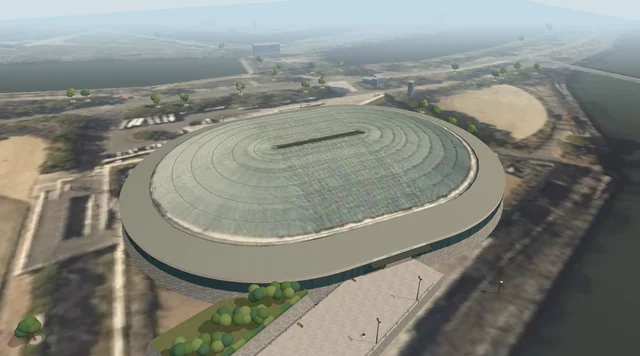
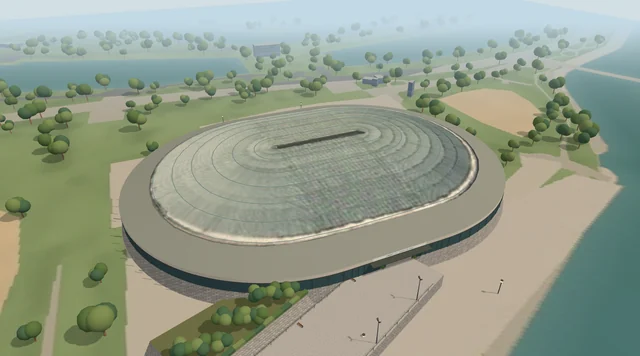
Use surveyed park surfaces and distinct plaza and lobby finishes in Osaka

diff --git a/src/osaka/exterior.js b/src/osaka/exterior.js
@@ -4,33 +4,25 @@ import * as T from 'three';
 import { perimeter, radius, rim } from './seats.js';
 import { deck, ground, innerWall, facade, stairHalf, stairTop, tread, treads, trees, fountain } from './grounds.js';
 
-function masonry(paving) {
+function masonry() {
   const canvas=document.createElement('canvas');canvas.width=canvas.height=512;
   const ctx=canvas.getContext('2d');
-  ctx.fillStyle=paving?'#95928c':'#72726c';ctx.fillRect(0,0,512,512);
+  ctx.fillStyle='#72726c';ctx.fillRect(0,0,512,512);
   let seed=53;
   const random=()=>((seed=(seed*16807)%2147483647)/2147483647);
-  const height=paving?64:85.3333;
-  for(let row=0;row<Math.round(512/height);row++){
-    const width=paving?128:102.4;
-    for(let col=-1;col<Math.ceil(512/width)+1;col++){
-      const x=(col+(row%2)/2)*width, y=row*height;
-      const tone=Math.round((paving?177:159)+random()*(paving?14:36));
+  const height=512/6,width=512/5;
+  for(let row=0;row<6;row++){
+    for(let col=-1;col<=5;col++){
+      const x=(col+(row%2)/2)*width,y=row*height;
+      const tone=Math.round(159+random()*36),cut=7+random()*13;
       ctx.fillStyle='rgb('+[tone+4,tone+3,tone-2]+')';
-      ctx.beginPath();
-      if(!paving){
-        const cut=7+random()*13;
-        ctx.moveTo(x+cut,y+3);ctx.lineTo(x+width-cut*.7,y+2);
-        ctx.lineTo(x+width-2,y+cut);ctx.lineTo(x+width-4,y+height-cut*.55);
-        ctx.lineTo(x+width-cut,y+height-2);ctx.lineTo(x+cut*.7,y+height-4);
-        ctx.lineTo(x+2,y+height-cut);ctx.lineTo(x+3,y+cut);ctx.closePath();ctx.fill();
-        const wash=ctx.createLinearGradient(x,y,x+width*.45,y+height);
-        wash.addColorStop(0,'rgba(246,242,228,.29)');wash.addColorStop(.5,'rgba(184,177,164,.03)');wash.addColorStop(1,'rgba(51,60,57,.25)');
-        ctx.fillStyle=wash;ctx.fill();continue;
-      }
-      ctx.moveTo(x+2,y+3);ctx.lineTo(x+width-4,y+2);
-      ctx.lineTo(x+width-2,y+height-6);ctx.lineTo(x+width-7,y+height-2);
-      ctx.lineTo(x+3,y+height-2);ctx.closePath();ctx.fill();
+      ctx.beginPath();ctx.moveTo(x+cut,y+3);ctx.lineTo(x+width-cut*.7,y+2);
+      ctx.lineTo(x+width-2,y+cut);ctx.lineTo(x+width-4,y+height-cut*.55);
+      ctx.lineTo(x+width-cut,y+height-2);ctx.lineTo(x+cut*.7,y+height-4);
+      ctx.lineTo(x+2,y+height-cut);ctx.lineTo(x+3,y+cut);ctx.closePath();ctx.fill();
+      const wash=ctx.createLinearGradient(x,y,x+width*.45,y+height);
+      wash.addColorStop(0,'rgba(246,242,228,.29)');wash.addColorStop(.5,'rgba(184,177,164,.03)');wash.addColorStop(1,'rgba(51,60,57,.25)');
+      ctx.fillStyle=wash;ctx.fill();
     }
   }
   for(let i=0;i<24000;i++){
@@ -46,9 +38,22 @@ export function buildExterior(redraw) {
   const root=new T.Group();
   const solid=color=>new T.MeshStandardMaterial({color,roughness:.82});
   const glow=color=>new T.MeshBasicMaterial({color});
-  const stoneMap=masonry(false);
+  const stoneMap=masonry();
   const stone=new T.MeshStandardMaterial({map:stoneMap,bumpMap:stoneMap,bumpScale:.23});
-  const tile=new T.MeshStandardMaterial({map:masonry(true)});
+  const loader=new T.TextureLoader();
+  function floorFinish(name,repeat,roughness,relief){
+    const read=(part)=>{
+      const t=loader.load('./textures/'+name+'_'+part+'.webp',redraw);
+      t.wrapS=t.wrapT=T.RepeatWrapping;t.repeat.setScalar(repeat);t.anisotropy=4;
+      if(part==='albedo')t.colorSpace=T.SRGBColorSpace;
+      return t;
+    };
+    return new T.MeshStandardMaterial({map:read('albedo'),normalMap:read('normal'),
+      normalScale:new T.Vector2(relief,relief),roughness,roughnessMap:read('roughness'),side:T.DoubleSide});
+  }
+  // Planar UVs span four metres. Match the 2.4 m paving set used at K-Arena.
+  const tile=floorFinish('pavers_warmgrey',4/2.4,.94,.42);
+  const lobbyFloor=floorFinish('concrete_floor_sealed',1,.83,.16);
   const concrete=solid(0xb1aaa0), bronze=solid(0x464f49), glass=solid(0x496b70);
   const wood=solid(0x946e50), foliage=[solid(0x587741),solid(0x789056),solid(0x466c4c)];
   const porcelain=solid(0xe3ddcc), lamp=glow(0xffebc8);
@@ -90,12 +95,11 @@ export function buildExterior(redraw) {
     const mesh=new T.Mesh(new T.PlaneGeometry(w,h),new T.MeshBasicMaterial({map}));
     mesh.position.set(x,y,z);mesh.rotation.y=side>0?0:Math.PI;root.add(mesh);return mesh;
   }
-  const shade=solid(0x65785a);
-  precinct({root,box,strip,sign,stone,tile,bronze,concrete,wood,porcelain,lamp,foliage,instance,crown,cylinder},redraw);
+  precinct({root,box,strip,sign,stone,tile,lobbyFloor,bronze,concrete,wood,porcelain,lamp,foliage,instance,crown,cylinder},redraw);
   strip(stone,facade+1.25,ground-.08,facade,deck+.04);
-  strip(tile,innerWall,deck,stair.inner,deck,{planar:true});
-  strip(tile,stair.inner,deck,stair.outer,deck,{planar:true,omit:p=>Math.abs(stairDistance(p.x,p.z))<14});
-  strip(tile,stair.outer,deck,facade,deck,{planar:true});
+  strip(lobbyFloor,innerWall,deck,stair.inner,deck,{planar:true});
+  strip(lobbyFloor,stair.inner,deck,stair.outer,deck,{planar:true,omit:p=>Math.abs(stairDistance(p.x,p.z))<14});
+  strip(lobbyFloor,stair.outer,deck,facade,deck,{planar:true});
   glass.roughness=.28;glass.metalness=.23;
   strip(glass,facade,deck,facade,deck+3.7,{gap:4.65});
   for(const height of [.24,2.70])strip(bronze,facade+.035,deck+height,facade+.035,deck+height+.07,{gap:4.65});
@@ -158,7 +162,7 @@ export function buildExterior(redraw) {
   // A representative fountain, park planting and plaza lamps frame the approach.
   const paving=new T.CircleGeometry(17,64);paving.rotateX(-Math.PI/2);
   const uv=paving.attributes.uv,p=paving.attributes.position;
-  for(let i=0;i<uv.count;i++)uv.setXY(i,p.getX(i)/4,p.getZ(i)/4);
+  for(let i=0;i<uv.count;i++)uv.setXY(i,(p.getX(i)+fountain.x)/4,(p.getZ(i)+fountain.z)/4);
   const roundel=new T.Mesh(paving,tile);roundel.position.set(fountain.x,ground+.052,fountain.z);root.add(roundel);
   instance(cylinder,concrete,fountain.x,ground+.23,fountain.z,fountain.radius,.46,fountain.radius);
   instance(cylinder,solid(0x75a9a8),fountain.x,ground+.47,fountain.z,fountain.radius-.32,.03,fountain.radius-.32);
@@ -174,14 +178,16 @@ export function buildExterior(redraw) {
   }
   const water=new T.BufferGeometry();water.setAttribute('position',new T.Float32BufferAttribute(waterLines,3));
   root.add(new T.LineSegments(water,new T.LineBasicMaterial({color:0xdaf0ef,transparent:true,opacity:.74})));
+  // Park planting is grouped into shared meshes. Vary the crowns in size
+  // and orientation so the riverbanks read as planted ground from above.
+  const trunk=new T.CylinderGeometry(.7,1,1,7);
   trees.forEach(([x,z],i)=>{
-    instance(cylinder,shade,x,ground+.045,z,2.25,.018,1.8,i);
-    instance(cylinder,concrete,x,ground+.18,z,1.4,.36,1.4);
-    instance(cylinder,wood,x,ground+2.2,z,.23,4.4,.23);
-    for(let j=0;j<6;j++){
-      const a=i*2.399+j*2.21,spread=1.15+.48*Math.sin(i+j),h=4.55+.34*j+.43*Math.cos(i);
-      instance(cylinder,wood,x+Math.sin(a)*.55,ground+h-1.14,z+Math.cos(a)*.55,.11,2.1,.11,a,.52);
-      instance(crown,foliage[(i+j)%3],x+Math.sin(a)*spread,ground+h,z+Math.cos(a)*spread,1.75,1.3+.12*j,1.61,a);
+    const a=i*2.39996,size=.8+.30*(1+Math.sin(i*6.2)),h=4.5*size;
+    instance(trunk,wood,x,ground+h/2,z,.24*size,h,.24*size,a);
+    for(let j=0;j<3;j++){
+      const angle=a+j*2.12,spread=1.35*size;
+      instance(crown,foliage[(i+j)%3],x+Math.sin(angle)*spread,ground+h+j*.65*size,z+Math.cos(angle)*spread,
+        2.45*size,(2.1+j*.25)*size,2.25*size,angle);
     }
   });
   for(const x of [-23,23])for(const z of [-78,78]){

diff --git a/src/osaka/precinct.js b/src/osaka/precinct.js
@@ -8,12 +8,11 @@ import { loadProps } from '../app/assets.js';
 // Osaka City 2022 CityGML (MLIT PLATEAU). Local X follows the surveyed long wall.
 // The aerial mosaic is a rotated crop of the MLIT PLATEAU-Ortho 2024 tiles.
 export function precinct(kit, redraw){
-  const {root,box,strip,sign,stone,tile,bronze,concrete,wood,porcelain,lamp,foliage,instance,crown,cylinder}=kit;
+  const {root,box,strip,sign,stone,tile,lobbyFloor,bronze,concrete,wood,porcelain,lamp,foliage,instance,crown,cylinder}=kit;
   const loader=new T.TextureLoader();
   function texture(path){
     const t=loader.load(path,redraw);t.colorSpace=T.SRGBColorSpace;t.anisotropy=4;return t;
   }
-  const skyMap=texture('./venues/osaka-park.webp');
   const groundShape=new T.Shape([[-480,-480],[480,-480],[480,480],[-480,480]].map(([x,z])=>new T.Vector2(x,-z)));
   const hole=new T.Path();
   for(let i=0;i<=160;i++){
@@ -24,8 +23,39 @@ export function precinct(kit, redraw){
   const land=new T.ShapeGeometry(groundShape),pos=land.attributes.position,uv=land.attributes.uv;
   for(let i=0;i<pos.count;i++)uv.setXY(i,.5+pos.getX(i)/960,.5+pos.getY(i)/960);
   land.rotateX(-Math.PI/2);
-  const landscape=new T.Mesh(land,new T.MeshStandardMaterial({map:skyMap,roughness:1,side:T.DoubleSide}));
+  const surface=new T.MeshStandardMaterial({map:texture('./venues/osaka-landcover.webp'),roughness:1});
+  const grain=loader.load('./venues/osaka-ground-detail.webp',redraw);
+  grain.wrapS=grain.wrapT=T.RepeatWrapping;grain.anisotropy=4;
+  // Use the survey colour for the distant view. In walking range, layer the
+  // grain of grass, pavers or asphalt at a physical scale of 2.4 m per repeat.
+  surface.onBeforeCompile=shader=>{
+    shader.uniforms.groundDetail={value:grain};
+    shader.fragmentShader='uniform sampler2D groundDetail;\n'+shader.fragmentShader.replace(
+      '#include <map_fragment>',`#include <map_fragment>
+      vec3 grain = texture2D(groundDetail, vMapUv * 400.0).rgb - 0.5;
+      vec3 base = diffuseColor.rgb;
+      float vegetation = smoothstep(0.012, 0.050, base.g - base.r);
+      float water = smoothstep(0.02, 0.10, base.b - base.r);
+      float hardscape = mix(grain.b, grain.g, smoothstep(0.19, 0.33, base.r));
+      diffuseColor.rgb *= 1.0 + mix(mix(hardscape, grain.r, vegetation), grain.b * 0.16, water);
+    `);
+  };
+  const landscape=new T.Mesh(land,surface);
   landscape.position.y=ground-.045;root.add(landscape);
+  let aerialMaterial, aerialReady=false, aerialSelected=false;
+  root.userData.setAerial=enabled=>{
+    aerialSelected=enabled;
+    if(enabled&&!aerialMaterial){
+      const image=loader.load('./venues/osaka-park.webp',()=>{
+        aerialReady=true;
+        if(aerialSelected)landscape.material=aerialMaterial;
+        redraw();
+      });
+      image.colorSpace=T.SRGBColorSpace;image.anisotropy=4;
+      aerialMaterial=new T.MeshStandardMaterial({map:image,roughness:1});
+    }
+    landscape.material=enabled&&aerialReady?aerialMaterial:surface;
+  };
   const facadeMap=texture('./textures/facade_office_glass_albedo.webp');
   facadeMap.wrapS=facadeMap.wrapT=T.RepeatWrapping;
   const sides=new T.MeshStandardMaterial({map:facadeMap,color:0xd4dde0,side:T.DoubleSide});
@@ -158,10 +188,9 @@ export function precinct(kit, redraw){
     return new T.MeshStandardMaterial({map,color,roughness:.84,side:T.DoubleSide});
   }
   const plaster=tiledFinish('concrete_painted_cream',0xf5f2ed);
-  const terrazzo=tiledFinish('concrete_floor_sealed',0xb9b7ac,1.5);
   const gateGap=p=>Boolean(gates.find(g=>(p.x-g.cx)*g.nx+p.z*g.nz>20&&Math.abs((p.x-g.cx)*g.nz-p.z*g.nx)<2.7));
   const stairVoid=p=>Math.abs(Math.atan2(p.z,Math.abs(p.x)-17.6)*53.3)<14;
-  strip(terrazzo,23.8,.014,facade,.014,{planar:true});
+  strip(lobbyFloor,radius-.52,.01,facade,.01,{planar:true});
   strip(plaster,47.8,3.65,51.2,3.65,{planar:true});
   strip(plaster,51.2,3.65,55.4,3.65,{planar:true,omit:stairVoid});
   strip(plaster,55.4,3.65,facade,3.65,{planar:true});

diff --git a/src/osaka/viewer.js b/src/osaka/viewer.js
@@ -61,6 +61,7 @@ export function start() {
   let flyPose=mode==='fly'?savedPose:null;
   if(mode==='fly')savedPose=null;
   let night=params.get('night')==='1', show=params.get('show')==='1', low=params.get('q')==='low';
+  let aerial=params.get('aerial')==='1';
   let labels=params.get('labels')!=='0',roofOpen=params.get('roof')==='0';
   let floor=params.get('level')==='1'?1:2, axis=params.get('axis')==='x'?'x':'z';
   let cut=Math.max(-65,Math.min(65,Number(params.get('cut'))||0));
@@ -231,10 +232,12 @@ export function start() {
   const showSwitch=switchRow(tr('공연 조명'),show,value=>{show=value;appearance();});
   const labelSwitch=switchRow(tr('라벨'),labels,value=>{labels=value;appearance();});
   const roofSwitch=switchRow(tr('지붕 열기'),roofOpen,value=>{roofOpen=value;update();});
+  const aerialSwitch=switchRow(tr('항공사진 지면'),aerial,value=>{aerial=value;appearance();},
+    tr('공연장 주변 공원의 지면에 항공사진을 표시합니다.'));
   const sceneTools=h('div',{class:'scene'},
     h('div',{class:'time-row'},h('span',null,tr('시간대')),time),
     h('details',{class:'group'},h('summary',null,icon('settings',16),tr('장면 설정')),
-      showSwitch,roofSwitch,labelSwitch,h('div',{class:'inline'},h('span',null,tr('품질')),quality)));
+      showSwitch,roofSwitch,labelSwitch,aerialSwitch,h('div',{class:'inline'},h('span',null,tr('품질')),quality)));
   const help=h('dialog',{class:'quick-guide','aria-label':tr('조작 안내')},h('h2',null,tr('조작 안내')),
     h('ul',null,[
       ['↻','전체 보기','드래그로 회전 · 휠 또는 두 손가락으로 확대'],
@@ -279,6 +282,9 @@ export function start() {
     renderer.setPixelRatio(low?1:Math.min(devicePixelRatio,1.75));
     hall.setShow(show);time.setValue(night);quality.setValue(low);
     showSwitch.input.checked=show;labelSwitch.input.checked=labels;
+    grounds?.userData.setAerial(aerial);
+    aerialSwitch.input.checked=aerial;
+    credit.textContent=aerial?'© MLIT PLATEAU · PLATEAU-Ortho 2024':'© MLIT PLATEAU · Osaka';
     roofSwitch.hidden=mode!=='exterior';roofSwitch.input.checked=roofOpen;
     writeUrl();redraw();
   }
@@ -406,7 +412,7 @@ export function start() {
       url.searchParams.set('start',place);
       url.searchParams.set('pose',[pose.x,pose.z,pose.yaw,pose.pitch,pose.y].map(v=>Number(v.toFixed(4))).join(','));
     }else{url.searchParams.delete('start');url.searchParams.delete('pose');}
-    for(const [k,v] of Object.entries({night:night?'1':null,show:show?'1':null,q:low?'low':null,labels:labels?null:'0',roof:roofOpen?'0':null,level:mode==='floor'?floor:null,axis:mode==='section'?axis:null,cut:mode==='section'?cut:null})){
+    for(const [k,v] of Object.entries({aerial:aerial?'1':null,night:night?'1':null,show:show?'1':null,q:low?'low':null,labels:labels?null:'0',roof:roofOpen?'0':null,level:mode==='floor'?floor:null,axis:mode==='section'?axis:null,cut:mode==='section'?cut:null})){
       if(v===null)url.searchParams.delete(k);else url.searchParams.set(k,v);
     }
     if(url.href!==location.href)history.replaceState(null,'',url);

diff --git a/src/osaka/grounds.js b/src/osaka/grounds.js
@@ -16,6 +16,7 @@ export const stairHalf = 10;
 export const doorHalf = 4.2;
 export const fountain = { x: 102, z: -107, radius: 7.2 };
 export const trees = city.trees;
+const walkTrees=trees.filter(([x,z])=>Math.abs(x)<=118&&Math.abs(z)<=121);
 const approach=entryPoint(119,9.2);
 export const places = {
   plaza: { label: '분수 광장', ...approach, yaw:Math.atan2(approach.x,approach.z+facade) },
@@ -73,6 +74,6 @@ export function floorAt(x,z,y=deck,layout='B') {
   }
   if(Math.hypot(x-fountain.x,z-fountain.z)<fountain.radius+.28) return null;
   if(Math.hypot(ax-23,az-78)<.48) return null;
-  if(trees.some(([tx,tz])=>Math.hypot(x-tx,z-tz)<1.55)) return null;
+  if(walkTrees.some(([tx,tz])=>Math.hypot(x-tx,z-tz)<1.55)) return null;
   return ground;
 }

diff --git a/src/app/messages.js b/src/app/messages.js
@@ -147,6 +147,7 @@ export const messages = {
   "지붕 열기": ["Open roof","屋根を開く"],
   "라벨": ["Labels","ラベル"],
   "항공사진 지면": ["Aerial imagery","航空写真"],
+  "공연장 주변 공원의 지면에 항공사진을 표시합니다.": ["Show aerial imagery on the park grounds around the hall.","ホール周辺の公園の地面に航空写真を表示します。"],
   "PLATEAU-Ortho 타일을 MLIT 서버에서 불러옵니다": ["Loads PLATEAU-Ortho imagery from MLIT","国土交通省のPLATEAU-Orthoタイルを読み込みます"],
   "높음": ["High","高"],
   "낮음": ["Low","低"],

diff --git a/research/osaka-jo-hall.md b/research/osaka-jo-hall.md
@@ -6,7 +6,9 @@ The local origin is at 34.68965545° N, 135.53009923° E. Positive X follows the
 
 The footprint and measured height of 20.9 m are from building `bldg_76be51df-af78-4437-b4f4-aac6dff0dd62` in the 2022 Osaka City PLATEAU CityGML dataset. The model uses the surveyed perimeter and a reconstructed intermediate roof profile. The surrounding buildings use simplified footprint rings and published heights in the same frame. Their wall finishes are illustrative. [MLIT Project PLATEAU, Osaka City 2022](https://www.geospatial.jp/ckan/dataset/plateau-27100-osaka-shi-2022)
 
-The ground image and roof finish are local, rotated crops of MLIT PLATEAU-Ortho 2024. The ground covers 960 m across. The roof crop covers 140 m along the long axis. The fountain plaza, diagonal north approach and riverside terraces were positioned by comparing the aerial view with the operator's arrival photographs. [PLATEAU-Ortho tiles](https://tile.plateauview.mlit.go.jp/tiles/plateau-ortho-2024/17/114883/52053.png) · [Official north entrance approach](https://www.osaka-johall.com/access/osakajo-koen/)
+Default ground colours follow the 2022 PLATEAU land-use and road polygons. The two sports fields and forecourt are traced from the local orthophoto. The viewer repeats paving, grass and asphalt grain in metres and uses approximate planting positions sampled within park areas. The aerial ground switch replaces only the outside surface and is stored in shared links as `aerial=1`.
+
+The optional ground image and roof finish are local, rotated crops of MLIT PLATEAU-Ortho 2024. The ground covers 960 m across. The roof crop covers 140 m along the long axis. The fountain plaza, diagonal north approach and riverside terraces were positioned by comparing the aerial view with the operator's arrival photographs. [PLATEAU-Ortho tiles](https://tile.plateauview.mlit.go.jp/tiles/plateau-ortho-2024/17/114883/52053.png) · [Official north entrance approach](https://www.osaka-johall.com/access/osakajo-koen/)
 
 ## Public interior
 
